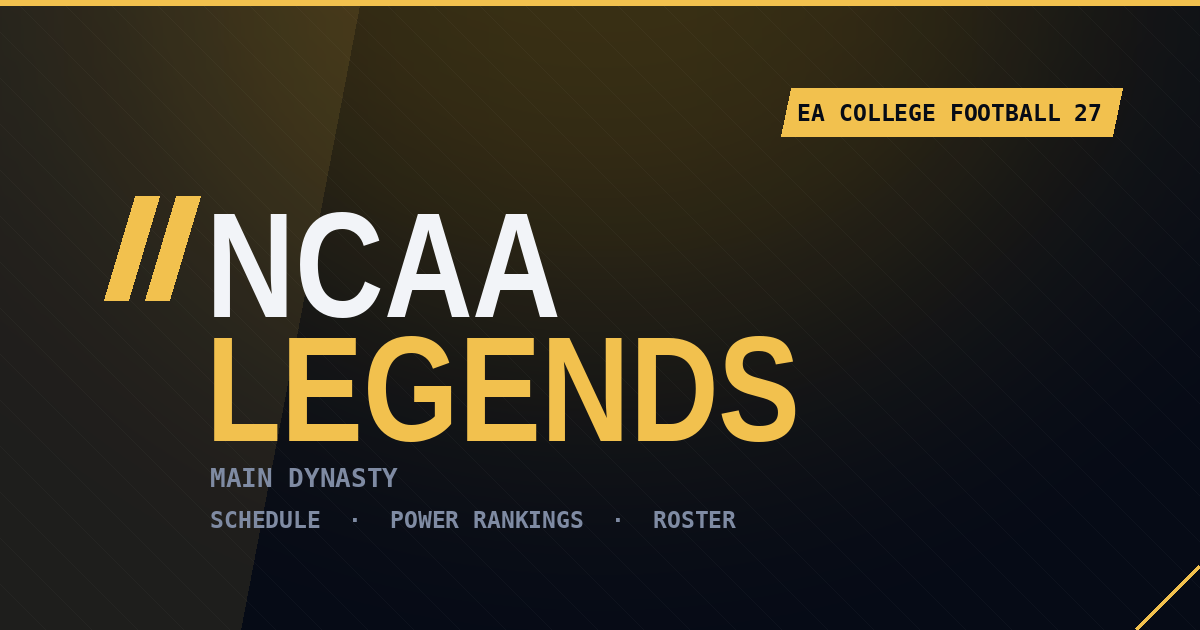
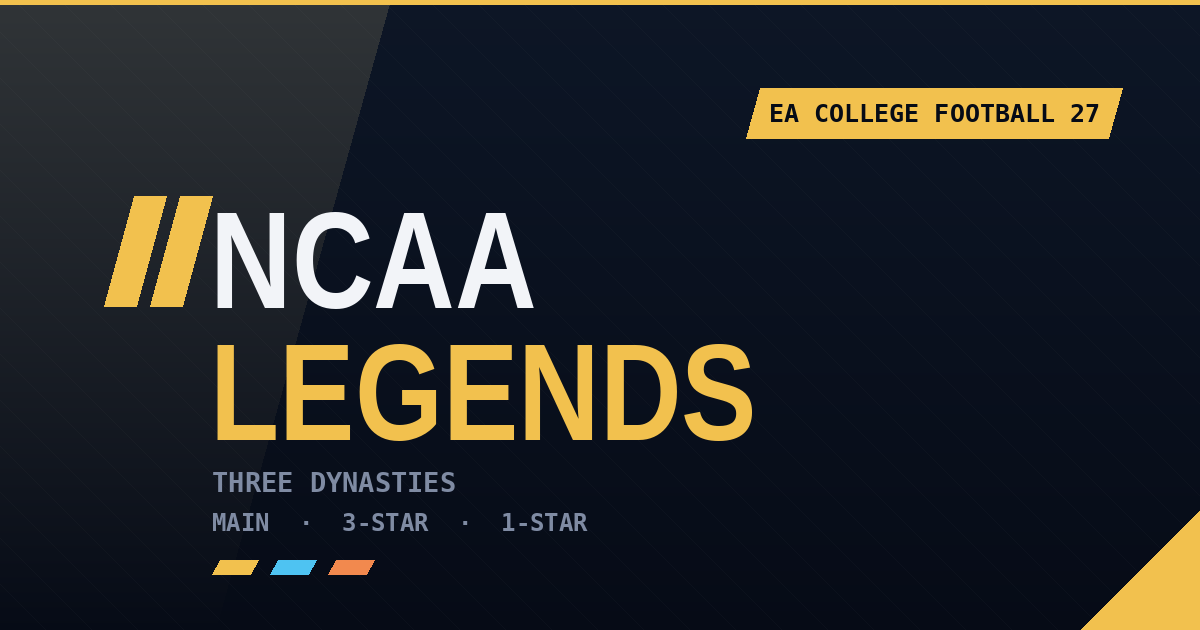
update landing page preview image

diff --git a/main/index.html b/main/index.html
@@ -22,13 +22,13 @@
 <meta property="og:title" content="NCAA Legends — Main Dynasty">
 <meta property="og:description" content="EA Sports College Football 27 online dynasty. Schedule, power rankings, and the coach roster.">
 <meta property="og:url" content="https://ncaalegends.github.io/main/">
-<meta property="og:image" content="https://ncaalegends.github.io/og-image.png">
+<meta property="og:image" content="https://ncaalegends.github.io/main/og-image.png">
 <meta property="og:image:width" content="1200">
 <meta property="og:image:height" content="630">
 <meta name="twitter:card" content="summary_large_image">
 <meta name="twitter:title" content="NCAA Legends — Main Dynasty">
 <meta name="twitter:description" content="EA Sports College Football 27 online dynasty. Schedule, power rankings, and the coach roster.">
-<meta name="twitter:image" content="https://ncaalegends.github.io/og-image.png">
+<meta name="twitter:image" content="https://ncaalegends.github.io/main/og-image.png">
 <link rel="canonical" href="https://ncaalegends.github.io/main/">
 <meta name="theme-color" content="#060b16">
 

diff --git a/tools/make-og-images.py b/tools/make-og-images.py
@@ -11,7 +11,8 @@ link previews as the main dynasty.
     python3 tools/make-og-images.py
 
 Writes:
-    og-image.png          main   (gold)
+    og-image.png          community — the landing page (gold, no league name)
+    main/og-image.png     main   (gold)
     3star/og-image.png    3-star (ice blue)
     1star/og-image.png    1-star (copper)
 
@@ -45,10 +46,22 @@ MONO_FONT = "/usr/share/fonts/truetype/dejavu/DejaVuSansMono-Bold.ttf"
 
 ROOT = os.path.join(os.path.dirname(os.path.abspath(__file__)), "..")
 
-LEAGUES = [
-    ("",      "MAIN DYNASTY",   (242, 193, 78)),
-    ("3star", "3-STAR DYNASTY", (78, 195, 242)),
-    ("1star", "1-STAR DYNASTY", (242, 137, 78)),
+GOLD = (242, 193, 78)
+ICE = (78, 195, 242)
+COPPER = (242, 137, 78)
+
+# (folder, tagline, subline, accent, chips)
+#
+# The root card is the community one — it fronts the landing page,
+# which is about all three dynasties rather than any single league.
+# It keeps the gold identity but carries no league name, and shows
+# the three accents as chips so it reads as the set rather than as
+# the main dynasty wearing a different subtitle.
+CARDS = [
+    ("",      "THREE DYNASTIES", "MAIN  ·  3-STAR  ·  1-STAR",            GOLD,   [GOLD, ICE, COPPER]),
+    ("main",  "MAIN DYNASTY",    "SCHEDULE  ·  POWER RANKINGS  ·  ROSTER", GOLD,   []),
+    ("3star", "3-STAR DYNASTY",  "SCHEDULE  ·  POWER RANKINGS  ·  ROSTER", ICE,    []),
+    ("1star", "1-STAR DYNASTY",  "SCHEDULE  ·  POWER RANKINGS  ·  ROSTER", COPPER, []),
 ]
 
 
@@ -56,7 +69,7 @@ def blend(c1, c2, t):
     return tuple(round(a + (b - a) * t) for a, b in zip(c1, c2))
 
 
-def build(tag, accent):
+def build(tag, subline, accent, chips):
     img = Image.new("RGB", (W, H), NAVY_DEEP)
     d = ImageDraw.Draw(img, "RGBA")
 
@@ -117,7 +130,13 @@ def build(tag, accent):
     d.text((210, 310), "LEGENDS", font=f_legends, fill=accent)
 
     d.text((212, 466), tag, font=f_tag, fill=STEEL)
-    d.text((212, 508), "SCHEDULE  ·  POWER RANKINGS  ·  ROSTER", font=f_sub, fill=STEEL)
+    d.text((212, 508), subline, font=f_sub, fill=STEEL)
+
+    # Community card only: one angled chip per league, in league order,
+    # so the card shows the whole set at a glance.
+    for i, c in enumerate(chips):
+        x = 212 + i * 58
+        d.polygon([(x + 8, 560), (x + 46, 560), (x + 38, 574), (x, 574)], fill=c)
 
     return img
 
@@ -133,14 +152,17 @@ def main():
     # the original.
     include_main = "--include-main" in sys.argv
 
-    for d_name, tag, accent in LEAGUES:
-        if not d_name and not include_main:
-            print("  og-image.png             skipped (use --include-main to rebuild)")
+    for d_name, tag, subline, accent, chips in CARDS:
+        # main/og-image.png predates this script and was made with real
+        # Oswald. Rebuilding it here would quietly swap in the
+        # substitute font, so it's left alone unless asked.
+        if d_name == "main" and not include_main:
+            print("  main/og-image.png        skipped (use --include-main to rebuild)")
             continue
         out_dir = os.path.join(ROOT, d_name) if d_name else ROOT
         os.makedirs(out_dir, exist_ok=True)
         out = os.path.join(out_dir, "og-image.png")
-        build(tag, accent).save(out, optimize=True)
+        build(tag, subline, accent, chips).save(out, optimize=True)
         size = os.path.getsize(out) / 1024
         print(f"  {out.replace(ROOT + os.sep, ''):24} {size:6.1f} KB  {tag}")
 